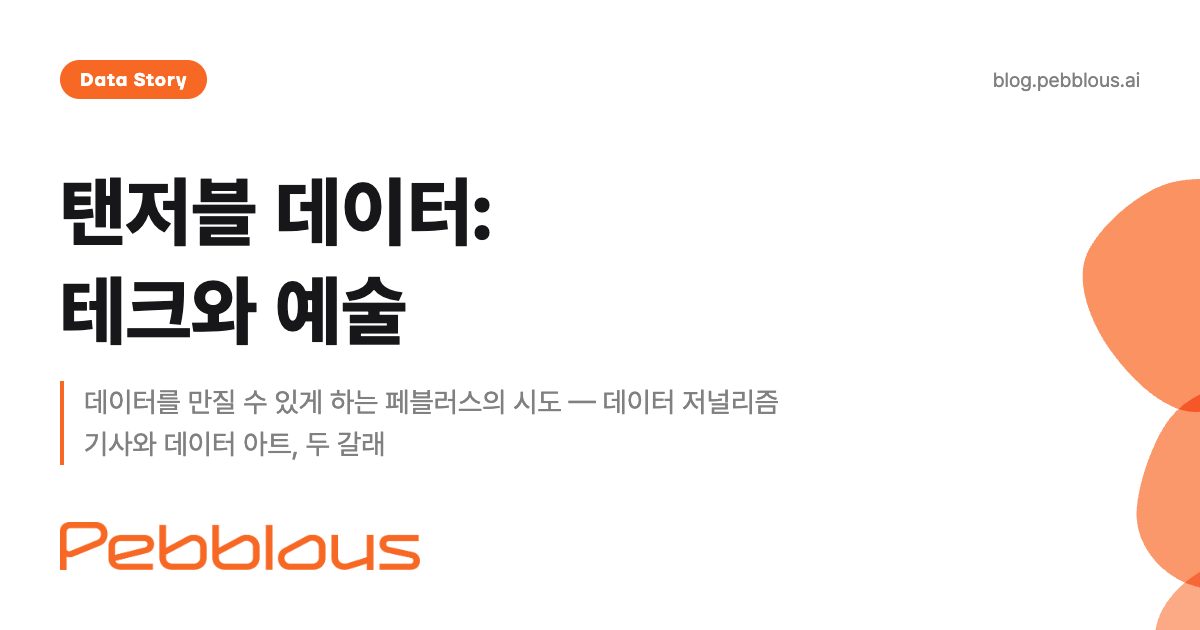
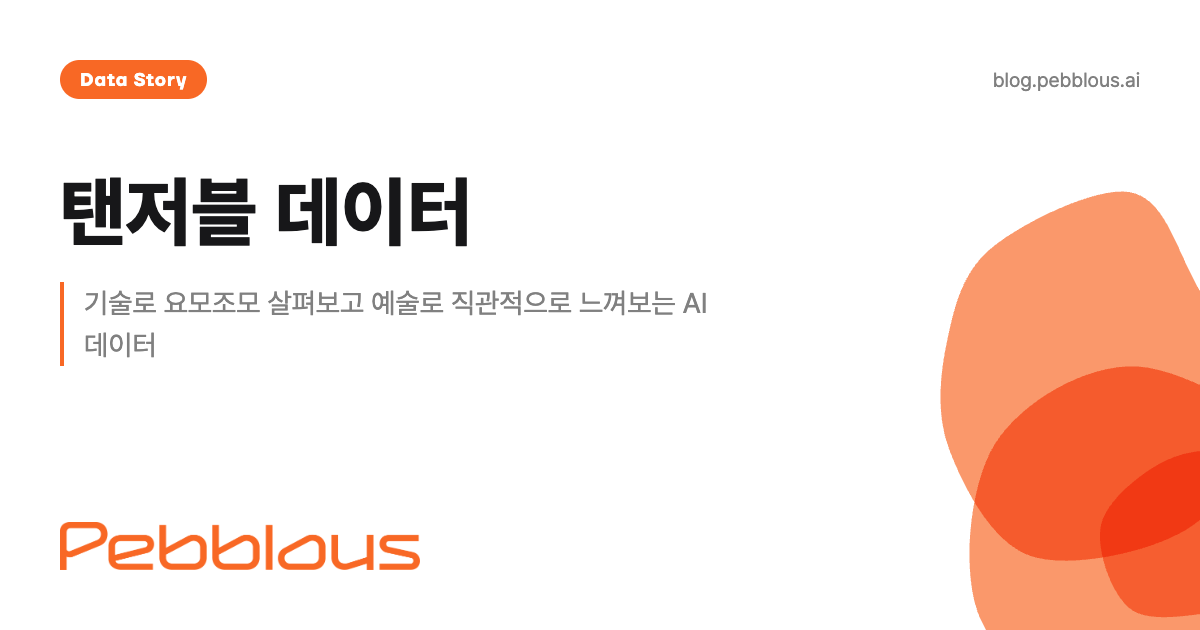
feat(tangible-data): 허브 단순화 — 제목 '탠저블 데이터', 부제 '기술로 요모조모 살펴보고 예술로 직관적으로 느껴보는 AI 데이터'(형님 지정)
- 요약 한 문단(두 갈래 설명을 녹임) → Story 자동 그리드 → Art 카드. 읽는 법·CTA 블록 제거, FAQ 3개
- OG·사이드카·changelog 갱신. title-census 통과, check-ko-prose 해라체 100%

diff --git a/project/tangible-data/ko/index.html b/project/tangible-data/ko/index.html
@@ -8,8 +8,8 @@
     <meta name="robots" content="index, follow">
     <meta name="revisit-after" content="7 days">
 
-    <title>탠저블 데이터 허브 — 테크와 예술, 만질 수 있는 데이터 | 페블러스</title>
-    <meta name="description" content="탠저블 데이터는 데이터를 만질 수 있게 하는 페블러스의 시도다. 데이터 저널리즘 인터랙티브 기사(Tangible Data Story)와 데이터 아트(Tangible Data Art), 두 갈래를 한 허브에 모은다.">
+    <title>탠저블 데이터 — 기술과 예술로 만지는 AI 데이터 | 페블러스</title>
+    <meta name="description" content="데이터를 만질 수 있게 하는 페블러스의 시도. 기술로 요모조모 살펴보는 데이터 저널리즘 기사와 예술로 직관적으로 느껴보는 데이터 아트, 두 갈래를 한 허브에 모은다.">
     <meta name="keywords" content="탠저블 데이터, Tangible Data, 데이터 저널리즘, 인터랙티브 기사, 데이터 아트, 데이터 아트랩, DAL, 임베딩, DINOv3, 페블러스">
 
     <link rel="canonical" href="https://blog.pebblous.ai/project/tangible-data/ko/">
@@ -18,14 +18,14 @@
     <link rel="alternate" hreflang="x-default" href="https://blog.pebblous.ai/project/tangible-data/ko/">
 
     <!-- Open Graph -->
-    <meta property="og:title" content="탠저블 데이터: 테크와 예술">
-    <meta property="og:description" content="데이터를 만질 수 있게 하는 페블러스의 시도 — 데이터 저널리즘 기사와 데이터 아트, 두 갈래">
+    <meta property="og:title" content="탠저블 데이터">
+    <meta property="og:description" content="기술로 요모조모 살펴보고 예술로 직관적으로 느껴보는 AI 데이터">
     <meta property="og:type" content="website">
     <meta property="og:url" content="https://blog.pebblous.ai/project/tangible-data/ko/">
     <meta property="og:image" content="https://blog.pebblous.ai/project/tangible-data/ko/image/index.png">
     <meta property="og:image:width" content="1200">
     <meta property="og:image:height" content="630">
-    <meta property="og:image:alt" content="탠저블 데이터 — 테크와 예술, 페블러스 허브">
+    <meta property="og:image:alt" content="탠저블 데이터 — 페블러스 허브">
     <meta property="og:site_name" content="Pebblous Blog">
     <meta property="og:locale" content="ko_KR">
 
@@ -33,10 +33,10 @@
     <meta name="twitter:card" content="summary_large_image">
     <meta name="twitter:site" content="@pebblous_official">
     <meta name="twitter:creator" content="@pebblous_official">
-    <meta name="twitter:title" content="탠저블 데이터: 테크와 예술">
-    <meta name="twitter:description" content="데이터를 만질 수 있게 하는 페블러스의 시도 — 데이터 저널리즘 기사와 데이터 아트, 두 갈래">
+    <meta name="twitter:title" content="탠저블 데이터">
+    <meta name="twitter:description" content="기술로 요모조모 살펴보고 예술로 직관적으로 느껴보는 AI 데이터">
     <meta name="twitter:image" content="https://blog.pebblous.ai/project/tangible-data/ko/image/index.png">
-    <meta name="twitter:image:alt" content="탠저블 데이터 — 테크와 예술, 페블러스 허브">
+    <meta name="twitter:image:alt" content="탠저블 데이터 — 페블러스 허브">
 
     <!-- Favicon -->
     <link rel="icon" href="/image/favicon.ico" sizes="any">
@@ -66,83 +66,42 @@
     <!-- Main Container -->
     <div class="container mx-auto px-6 py-8 md:py-12 max-w-6xl">
 
-        <!-- Hero Section -->
+        <!-- Hero -->
         <header class="text-center mb-12">
             <h1 id="page-h1-title" class="text-4xl md:text-5xl font-bold themeable-heading mb-4 leading-tight" style="color: #F86825;"></h1>
             <p class="text-sm themeable-muted">(주)페블러스 데이터 커뮤니케이션팀 · <a href="/project/tangible-data/en/" class="text-orange-400 hover:text-orange-300 transition-colors">English</a></p>
         </header>
 
-        <!-- 브랜드 선언 -->
+        <!-- 요약 -->
         <div class="intro-section">
             <div class="key-insight">
-                <p class="themeable-text leading-relaxed" style="font-weight:600; font-size:1.05rem;">
-                    탠저블 데이터는 데이터를 만질 수 있게 하는 페블러스의 시도다. 표와 그림으로 읽던 것을 손으로 고르고 돌리고 눌러 보게 한다.
-                </p>
-                <p class="themeable-text leading-relaxed mt-4">
-                    이 시도에는 두 손이 있다. 하나는 <strong>Tangible Data Story</strong>, 연구 데이터를 독자가 직접 탐색하는 데이터 저널리즘 기사다. 다른 하나는 <strong>Tangible Data Art</strong>, 페블러스 데이터 아트랩(DAL)이 데이터를 감각의 경험으로 옮기는 작품이다. 기사는 정확성과 출처로, 작품은 경험과 질문으로 같은 데이터를 다르게 만지게 한다.
-                </p>
-                <p class="themeable-text leading-relaxed mt-4">
-                    두 갈래는 읽는 규칙이 다르다. 그래서 이 허브는 둘을 한 지붕 아래 두되 섞지 않는다. 기사 쪽은 실측과 합성을 구분하고 출처와 한계를 함께 적는다. 작품 쪽은 전시와 상호작용의 기록이다.
+                <p class="themeable-text leading-relaxed">
+                    탠저블 데이터는 데이터를 만질 수 있게 하는 페블러스의 시도다. 표와 그림으로 읽던 AI 데이터를 손으로 고르고 돌리고 눌러 보게 한다. 갈래는 둘이다. <strong>Tangible Data Story</strong>는 연구 데이터를 독자가 직접 탐색하는 데이터 저널리즘 기사이고, <strong>Tangible Data Art</strong>는 페블러스 데이터 아트랩(DAL)이 데이터를 감각의 경험으로 옮기는 작품이다. 기사는 정확성과 출처로, 작품은 경험과 질문으로 같은 데이터를 다르게 만지게 한다. 이 허브는 둘을 한 지붕 아래 두되 섞지 않는다.
                 </p>
             </div>
         </div>
 
-        <!-- ===== Tangible Data Story ===== -->
-        <div class="intro-section">
-            <h2 class="text-2xl font-bold themeable-heading mb-2">Tangible Data Story</h2>
-            <p class="themeable-muted text-sm mb-6">연구하면서 만든 데이터 탐색기를 기사 안에 그대로 여는 데이터 저널리즘. 화면의 사진·좌표·수치는 실제 측정값이고, 원리를 보여 주려고 만든 합성 예제는 그렇다고 표시한다. 실험 하나가 끝날 때마다 한 편씩 더한다.</p>
-            <div class="space-y-4">
-                <a href="/story/tangible-data-dinov3-beans/ko/" class="ir-hover-card block themeable-card-bg rounded-lg p-5 border-2 no-underline" style="border-color: #F86825;">
-                    <p class="ir-hover-title text-lg font-bold themeable-heading">AI는 강낭콩 잎 사진을 어떻게 '비슷하다'고 볼까?</p>
-                    <p class="themeable-text text-sm mt-1 leading-relaxed">네 가지 AI 모델의 눈으로 같은 잎 사진 300장을 비교하고, 신경망 층마다 바뀌는 값을 직접 눌러 보는 탐색기. 실제 사진·임베딩·층별 텐서를 그대로 담았다.</p>
-                    <p class="text-xs themeable-muted mt-2">2026.09.25 · 첫 편</p>
-                </a>
-            </div>
-        </div>
-
-        <div class="intro-section">
-            <h3 class="text-xl font-bold themeable-heading mb-6">기사를 읽는 법</h3>
-            <div class="space-y-4">
-                <div class="themeable-card-bg rounded-lg p-4 border themeable-border">
-                    <p class="text-lg font-semibold themeable-heading">실측과 합성을 구분해 둔다</p>
-                    <p class="themeable-text text-sm mt-1 leading-relaxed">사진·좌표·이웃·층별 값처럼 실제로 측정한 것과, 원리를 보여 주려고 수학으로 만든 예제를 화면에서 따로 표시한다. 둘을 섞어 읽지 않도록 매 편에 같은 규칙을 쓴다.</p>
-                </div>
-                <div class="themeable-card-bg rounded-lg p-4 border themeable-border">
-                    <p class="text-lg font-semibold themeable-heading">가까워 보인다는 인상에서 멈추지 않는다</p>
-                    <p class="themeable-text text-sm mt-1 leading-relaxed">점이 가까이 모였다고 해서 모델이 그 이유를 안다는 뜻은 아니다. 어떤 표현과 거리로 계산했는지, 어떤 규칙으로 골랐는지 되짚을 수 있게 출처와 계산 경로를 함께 둔다.</p>
-                </div>
-                <div class="themeable-card-bg rounded-lg p-4 border themeable-border">
-                    <p class="text-lg font-semibold themeable-heading">데이터는 내려받을 수 있다</p>
-                    <p class="themeable-text text-sm mt-1 leading-relaxed">각 기사는 화면에 쓴 데이터 파일과 출처 목록을 함께 공개한다. 독자가 같은 자료로 다른 질문을 던질 수 있어야 만질 수 있는 데이터다.</p>
-                </div>
-            </div>
-        </div>
-
+        <!-- Story -->
         <div class="hub-section">
-            <h3 class="text-xl font-bold themeable-heading mb-6">스토리 모음</h3>
+            <h2 class="text-2xl font-bold themeable-heading mb-2">Tangible Data Story</h2>
+            <p class="themeable-muted text-sm mb-6">연구하면서 만든 데이터 탐색기를 기사 안에 그대로 연다. 화면의 사진·좌표·수치는 실제 측정값이고, 원리를 보여 주려고 만든 합성 예제는 그렇다고 표시한다. 실험 하나가 끝날 때마다 한 편씩 더한다.</p>
             <div id="tangible-story-cards">
                 <!-- Dynamically loaded from articles.json -->
             </div>
         </div>
 
-        <!-- ===== Tangible Data Art ===== -->
-        <div class="intro-section">
+        <!-- Art -->
+        <div class="hub-section">
             <h2 class="text-2xl font-bold themeable-heading mb-2">Tangible Data Art</h2>
-            <p class="themeable-muted text-sm mb-6">페블러스 데이터 아트랩(DAL)이 데이터를 감각의 경험으로 옮기는 작품과 전시의 기록. 관객이 데이터의 우주를 탐험하고 상호작용으로 새 데이터를 만들어 남긴다.</p>
+            <p class="themeable-muted text-sm mb-6">데이터 아트랩이 데이터를 감각의 경험으로 옮긴 작품과 전시의 기록.</p>
             <div class="space-y-4">
-                <a href="https://www.informationisbeautifulawards.com/showcase/7472-tangible-data-from-data-nature-to-data-culture" target="_blank" rel="noopener" class="ir-hover-card block themeable-card-bg rounded-lg p-5 border-2 no-underline" style="border-color: #F86825;">
+                <a href="https://www.informationisbeautifulawards.com/showcase/7472-tangible-data-from-data-nature-to-data-culture" target="_blank" rel="noopener" class="ir-hover-card block themeable-card-bg rounded-lg p-5 border themeable-border no-underline">
                     <p class="ir-hover-title text-lg font-bold themeable-heading">Tangible Data: From Data Nature to Data Culture ↗</p>
-                    <p class="themeable-text text-sm mt-1 leading-relaxed">2024년 현대차그룹 제로원데이에서 선보인 데이터 아트랩의 첫 작품. 관객이 직접 데이터의 우주를 탐험하고 상호작용으로 새로운 데이터를 창조해 기록하는 인터랙티브 미디어 아트. Information Is Beautiful Awards 2024 롱리스트.</p>
+                    <p class="themeable-text text-sm mt-1 leading-relaxed">2024년 현대차그룹 제로원데이에서 선보인 데이터 아트랩의 첫 작품. 관객이 직접 데이터의 우주를 탐험하고 상호작용으로 새로운 데이터를 만들어 기록하는 인터랙티브 미디어 아트. Information Is Beautiful Awards 2024 롱리스트.</p>
                     <p class="text-xs themeable-muted mt-2">2024.10.23 · 전시</p>
                 </a>
             </div>
-        </div>
-
-        <!-- Pebblous CTA -->
-        <div class="hub-section">
-            <div class="key-insight">
-                <p class="themeable-text leading-relaxed">두 갈래 모두 <strong><a href="https://pebblous.ai/" target="_blank" rel="noopener" style="color: #F86825;">페블러스</a></strong>가 AI 학습 데이터의 품질을 진단하고 고르는 일에서 출발했다. 데이터 품질 진단·정제·인증을 한자리에서 다루는 <strong><a href="/project/DataClinic/ko/" style="color: #F86825;">데이터클리닉(DataClinic)</a></strong>, 진단 결과를 이야기로 풀어낸 <strong><a href="/story/dataclinic-stories/ko/" style="color: #F86825;">DataClinic 진단 스토리</a></strong>, 데이터 아트랩의 <strong><a href="/project/DAL/" style="color: #F86825;">DAL 허브</a></strong>도 함께 볼 만하다.</p>
-            </div>
+            <p class="text-sm themeable-muted mt-4">더 많은 작품은 <a href="/project/DAL/" class="text-orange-400 hover:text-orange-300">데이터 아트랩(DAL) 허브</a>에 있다.</p>
         </div>
 
     </div>
@@ -167,9 +126,9 @@
 
         document.addEventListener('DOMContentLoaded', async function() {
             const config = {
-                mainTitle: "탠저블 데이터: 테크와 예술",
-                subtitle: "데이터를 만질 수 있게 하는 페블러스의 시도 — 데이터 저널리즘 기사와 데이터 아트, 두 갈래를 한 허브에",
-                pageTitle: "탠저블 데이터 허브 — 테크와 예술, 만질 수 있는 데이터 | 페블러스",
+                mainTitle: "탠저블 데이터",
+                subtitle: "기술로 요모조모 살펴보고 예술로 직관적으로 느껴보는 AI 데이터",
+                pageTitle: "탠저블 데이터 — 기술과 예술로 만지는 AI 데이터 | 페블러스",
                 publishDate: "2026년 9월",
                 publisher: "(주)페블러스 데이터 커뮤니케이션팀",
                 defaultTheme: "light",
@@ -177,11 +136,9 @@
                 articlePath: "project/tangible-data/ko/index.html",
                 tags: ["탠저블 데이터", "Tangible Data", "데이터 저널리즘", "인터랙티브 기사", "데이터 아트", "데이터 아트랩", "임베딩", "DINOv3"],
                 faqs: [
-                    { question: "탠저블 데이터는 무엇인가?", answer: "데이터를 만질 수 있게 하는 페블러스의 브랜드 개념이다. 연구 데이터를 독자가 직접 탐색하는 데이터 저널리즘 기사(Tangible Data Story)와, 데이터 아트랩이 데이터를 감각의 경험으로 옮기는 작품(Tangible Data Art), 두 갈래로 이루어진다." },
-                    { question: "Story와 Art는 무엇이 다른가?", answer: "Story는 실측과 합성을 구분하고 출처와 한계를 함께 적는 기사다. Art는 전시와 상호작용의 기록이다. 같은 데이터를 하나는 정확성으로, 하나는 경험으로 만지게 한다. 이 허브는 둘을 한 지붕 아래 두되 섞지 않는다." },
-                    { question: "Story의 화면에 나오는 숫자와 그림은 실제 데이터인가?", answer: "사진·좌표·이웃·층별 값은 실제로 측정한 자료다. 원리를 설명하려고 수학으로 만든 예제는 화면에 '합성'이라고 따로 표시한다." },
-                    { question: "탐색기를 쓰는 데 설치나 로그인이 필요한가?", answer: "필요 없다. 웹 브라우저에서 바로 열린다. 데이터는 페이지와 함께 내려받아지며, 모델을 새로 돌리지 않는다." },
-                    { question: "새 기사나 작품은 얼마나 자주 올라오나?", answer: "정해진 주기는 없다. 실험 하나가 끝나 독자가 만질 만한 데이터가 나올 때, 또는 데이터 아트랩의 새 작품이 나올 때 한 편씩 더한다." }
+                    { question: "탠저블 데이터는 무엇인가?", answer: "데이터를 만질 수 있게 하는 페블러스의 브랜드 개념이다. 기술로 요모조모 살펴보는 데이터 저널리즘 기사(Tangible Data Story)와 예술로 직관적으로 느껴보는 데이터 아트(Tangible Data Art), 두 갈래로 이루어진다." },
+                    { question: "Story와 Art는 무엇이 다른가?", answer: "Story는 실측과 합성을 구분하고 출처와 한계를 함께 적는 기사다. Art는 전시와 상호작용의 기록이다. 같은 데이터를 하나는 정확성으로, 하나는 경험으로 만지게 한다." },
+                    { question: "Story의 탐색기를 쓰는 데 설치나 로그인이 필요한가?", answer: "필요 없다. 웹 브라우저에서 바로 열린다. 데이터는 페이지와 함께 내려받아지며, 모델을 새로 돌리지 않는다." }
                 ]
             };
 

diff --git a/project/tangible-data/en/index.html b/project/tangible-data/en/index.html
@@ -8,8 +8,8 @@
     <meta name="robots" content="index, follow">
     <meta name="revisit-after" content="7 days">
 
-    <title>Tangible Data Hub — Tech and Art, Data You Can Handle | Pebblous</title>
-    <meta name="description" content="Tangible Data is Pebblous's effort to make data something you can handle. One hub, two strands: data-journalism interactive stories (Tangible Data Story) and data art (Tangible Data Art).">
+    <title>Tangible Data — AI Data Through Tech and Art | Pebblous</title>
+    <meta name="description" content="Pebblous's effort to make data something you can handle: data-journalism stories that examine AI data from every angle, and data art that lets you feel it intuitively, in one hub.">
     <meta name="keywords" content="Tangible Data, data journalism, interactive story, data art, Data Art Lab, DAL, embeddings, DINOv3, Pebblous">
 
     <link rel="canonical" href="https://blog.pebblous.ai/project/tangible-data/en/">
@@ -18,14 +18,14 @@
     <link rel="alternate" hreflang="x-default" href="https://blog.pebblous.ai/project/tangible-data/ko/">
 
     <!-- Open Graph -->
-    <meta property="og:title" content="Tangible Data: Tech and Art">
-    <meta property="og:description" content="Pebblous\'s effort to make data something you can handle — data-journalism stories and data art, two strands in one hub">
+    <meta property="og:title" content="Tangible Data">
+    <meta property="og:description" content="AI data examined from every angle through technology and felt intuitively through art">
     <meta property="og:type" content="website">
     <meta property="og:url" content="https://blog.pebblous.ai/project/tangible-data/en/">
     <meta property="og:image" content="https://blog.pebblous.ai/project/tangible-data/en/image/index.png">
     <meta property="og:image:width" content="1200">
     <meta property="og:image:height" content="630">
-    <meta property="og:image:alt" content="Tangible Data — Tech and Art, the Pebblous hub">
+    <meta property="og:image:alt" content="Tangible Data — the Pebblous hub">
     <meta property="og:site_name" content="Pebblous Blog">
     <meta property="og:locale" content="en_US">
 
@@ -33,10 +33,10 @@
     <meta name="twitter:card" content="summary_large_image">
     <meta name="twitter:site" content="@pebblous_official">
     <meta name="twitter:creator" content="@pebblous_official">
-    <meta name="twitter:title" content="Tangible Data: Tech and Art">
-    <meta name="twitter:description" content="Pebblous\'s effort to make data something you can handle — data-journalism stories and data art, two strands in one hub">
+    <meta name="twitter:title" content="Tangible Data">
+    <meta name="twitter:description" content="AI data examined from every angle through technology and felt intuitively through art">
     <meta name="twitter:image" content="https://blog.pebblous.ai/project/tangible-data/en/image/index.png">
-    <meta name="twitter:image:alt" content="Tangible Data — Tech and Art, the Pebblous hub">
+    <meta name="twitter:image:alt" content="Tangible Data — the Pebblous hub">
 
     <!-- Favicon -->
     <link rel="icon" href="/image/favicon.ico" sizes="any">
@@ -66,83 +66,42 @@
     <!-- Main Container -->
     <div class="container mx-auto px-6 py-8 md:py-12 max-w-6xl">
 
-        <!-- Hero Section -->
+        <!-- Hero -->
         <header class="text-center mb-12">
             <h1 id="page-h1-title" class="text-4xl md:text-5xl font-bold themeable-heading mb-4 leading-tight" style="color: #F86825;"></h1>
             <p class="text-sm themeable-muted">Pebblous Data Communication Team · <a href="/project/tangible-data/ko/" class="text-orange-400 hover:text-orange-300 transition-colors">한국어</a></p>
         </header>
 
-        <!-- Brand statement -->
+        <!-- Summary -->
         <div class="intro-section">
             <div class="key-insight">
-                <p class="themeable-text leading-relaxed" style="font-weight:600; font-size:1.05rem;">
-                    Tangible Data is Pebblous's effort to make data something you can handle: to pick up, turn around, and press on what you used to read in tables and charts.
-                </p>
-                <p class="themeable-text leading-relaxed mt-4">
-                    The effort has two hands. One is <strong>Tangible Data Story</strong>, data-journalism articles in which readers explore research data themselves. The other is <strong>Tangible Data Art</strong>, works by the Pebblous Data Art Lab (DAL) that turn data into sensory experience. Stories handle data through accuracy and sources; artworks handle it through experience and questions.
-                </p>
-                <p class="themeable-text leading-relaxed mt-4">
-                    The two strands follow different reading rules, so this hub keeps them under one roof without mixing them. Stories separate measured from synthetic and list sources and limits. Artworks are records of exhibitions and interaction.
+                <p class="themeable-text leading-relaxed">
+                    Tangible Data is Pebblous's effort to make data something you can handle: to pick up, turn around, and press on the AI data you used to read in tables and charts. It has two strands. <strong>Tangible Data Story</strong> is data journalism in which readers explore research data themselves; <strong>Tangible Data Art</strong> is work by the Pebblous Data Art Lab (DAL) that turns data into sensory experience. Stories handle data through accuracy and sources, artworks through experience and questions. The hub keeps the two under one roof without mixing them.
                 </p>
             </div>
         </div>
 
-        <!-- ===== Tangible Data Story ===== -->
-        <div class="intro-section">
-            <h2 class="text-2xl font-bold themeable-heading mb-2">Tangible Data Story</h2>
-            <p class="themeable-muted text-sm mb-6">Data journalism that opens the explorers we build during research inside the article itself. Photos, coordinates, and numbers on screen are real measurements; synthetic examples built to explain a principle are labeled as such. A new story is added whenever an experiment leaves data worth handling.</p>
-            <div class="space-y-4">
-                <a href="/story/tangible-data-dinov3-beans/en/" class="ir-hover-card block themeable-card-bg rounded-lg p-5 border-2 no-underline" style="border-color: #F86825;">
-                    <p class="ir-hover-title text-lg font-bold themeable-heading">How Does an AI Decide Which Bean-Leaf Photos Look Alike?</p>
-                    <p class="themeable-text text-sm mt-1 leading-relaxed">Compare four models' embeddings of the same 300 leaf photos and step through layer-by-layer tensors. Real photos, real embeddings, real intermediate tensors. The explorer interface is in Korean.</p>
-                    <p class="text-xs themeable-muted mt-2">2026.09.25 · First story</p>
-                </a>
-            </div>
-        </div>
-
-        <div class="intro-section">
-            <h3 class="text-xl font-bold themeable-heading mb-6">How to Read a Story</h3>
-            <div class="space-y-4">
-                <div class="themeable-card-bg rounded-lg p-4 border themeable-border">
-                    <p class="text-lg font-semibold themeable-heading">Measured and synthetic are kept apart</p>
-                    <p class="themeable-text text-sm mt-1 leading-relaxed">Photos, coordinates, neighbors, and layer values are measured. Examples built with mathematics to show a principle are marked as synthetic on screen. Every story uses the same rule so the two are never read as one.</p>
-                </div>
-                <div class="themeable-card-bg rounded-lg p-4 border themeable-border">
-                    <p class="text-lg font-semibold themeable-heading">We do not stop at "these look close"</p>
-                    <p class="themeable-text text-sm mt-1 leading-relaxed">Points clustering together does not mean the model knows why. Each story keeps the representation, the distance, and the selection rule in view, with sources and the computation path, so you can trace how a result was made.</p>
-                </div>
-                <div class="themeable-card-bg rounded-lg p-4 border themeable-border">
-                    <p class="text-lg font-semibold themeable-heading">The data is downloadable</p>
-                    <p class="themeable-text text-sm mt-1 leading-relaxed">Every story ships with the data files it draws and a list of sources. Data is tangible only if a reader can ask a different question of the same material.</p>
-                </div>
-            </div>
-        </div>
-
+        <!-- Story -->
         <div class="hub-section">
-            <h3 class="text-xl font-bold themeable-heading mb-6">All Stories</h3>
+            <h2 class="text-2xl font-bold themeable-heading mb-2">Tangible Data Story</h2>
+            <p class="themeable-muted text-sm mb-6">The explorers we build during research, opened inside the article itself. Photos, coordinates, and numbers on screen are real measurements; synthetic examples built to explain a principle are labeled as such. A new story is added whenever an experiment leaves data worth handling.</p>
             <div id="tangible-story-cards">
                 <!-- Dynamically loaded from articles.json -->
             </div>
         </div>
 
-        <!-- ===== Tangible Data Art ===== -->
-        <div class="intro-section">
+        <!-- Art -->
+        <div class="hub-section">
             <h2 class="text-2xl font-bold themeable-heading mb-2">Tangible Data Art</h2>
-            <p class="themeable-muted text-sm mb-6">Works and exhibitions by the Pebblous Data Art Lab (DAL) that turn data into sensory experience, where visitors explore a universe of data and create and record new data through interaction.</p>
+            <p class="themeable-muted text-sm mb-6">Works and exhibitions by the Data Art Lab that turn data into sensory experience.</p>
             <div class="space-y-4">
-                <a href="https://www.informationisbeautifulawards.com/showcase/7472-tangible-data-from-data-nature-to-data-culture" target="_blank" rel="noopener" class="ir-hover-card block themeable-card-bg rounded-lg p-5 border-2 no-underline" style="border-color: #F86825;">
+                <a href="https://www.informationisbeautifulawards.com/showcase/7472-tangible-data-from-data-nature-to-data-culture" target="_blank" rel="noopener" class="ir-hover-card block themeable-card-bg rounded-lg p-5 border themeable-border no-underline">
                     <p class="ir-hover-title text-lg font-bold themeable-heading">Tangible Data: From Data Nature to Data Culture ↗</p>
                     <p class="themeable-text text-sm mt-1 leading-relaxed">The Data Art Lab's first work, shown at Hyundai Motor Group's ZER01NE Day 2024: interactive media art in which visitors explore a universe of data and create and record new data through interaction. Long-listed for the Information Is Beautiful Awards 2024.</p>
                     <p class="text-xs themeable-muted mt-2">2024.10.23 · Exhibition</p>
                 </a>
             </div>
-        </div>
-
-        <!-- Pebblous CTA -->
-        <div class="hub-section">
-            <div class="key-insight">
-                <p class="themeable-text leading-relaxed">Both strands grew out of <strong><a href="https://pebblous.ai/" target="_blank" rel="noopener" style="color: #F86825;">Pebblous</a></strong>'s work on diagnosing and selecting AI training data. See also <strong><a href="/project/DataClinic/en/" style="color: #F86825;">DataClinic</a></strong>, where data quality diagnosis, curation, and certification meet, the <strong><a href="/story/dataclinic-stories/en/" style="color: #F86825;">DataClinic Diagnosis Stories</a></strong>, and the Data Art Lab's <strong><a href="/project/DAL/" style="color: #F86825;">DAL hub</a></strong>.</p>
-            </div>
+            <p class="text-sm themeable-muted mt-4">More works are in the <a href="/project/DAL/" class="text-orange-400 hover:text-orange-300">Data Art Lab (DAL) hub</a>.</p>
         </div>
 
     </div>
@@ -167,9 +126,9 @@
 
         document.addEventListener('DOMContentLoaded', async function() {
             const config = {
-                mainTitle: "Tangible Data: Tech and Art",
-                subtitle: "Pebblous's effort to make data you can handle — data-journalism stories and data art in one hub",
-                pageTitle: "Tangible Data Hub — Tech and Art, Data You Can Handle | Pebblous",
+                mainTitle: "Tangible Data",
+                subtitle: "AI data examined from every angle through technology and felt intuitively through art",
+                pageTitle: "Tangible Data — AI Data Through Tech and Art | Pebblous",
                 publishDate: "September 2026",
                 publisher: "Pebblous Data Communication Team",
                 defaultTheme: "light",
@@ -177,11 +136,9 @@
                 articlePath: "project/tangible-data/en/index.html",
                 tags: ["Tangible Data", "data journalism", "interactive story", "data art", "Data Art Lab", "embeddings", "DINOv3"],
                 faqs: [
-                    { question: "What is Tangible Data?", answer: "A Pebblous brand concept: making data something you can handle. It has two strands, data-journalism stories in which readers explore research data themselves (Tangible Data Story) and works by the Data Art Lab that turn data into sensory experience (Tangible Data Art)." },
-                    { question: "How do Story and Art differ?", answer: "Stories separate measured from synthetic and list sources and limits. Artworks are records of exhibitions and interaction. One handles the same data through accuracy, the other through experience. The hub keeps them under one roof without mixing them." },
-                    { question: "Are the numbers and images in a Story real data?", answer: "Photos, coordinates, neighbors, and layer values are measured data. Examples built with mathematics to explain a principle are labeled as synthetic on screen." },
-                    { question: "Do I need to install anything or log in?", answer: "No. Each explorer opens in a web browser. The data is downloaded with the page, and no model is run live." },
-                    { question: "How often is something new added?", answer: "There is no fixed schedule. A story is added whenever an experiment leaves data worth handling, and an artwork whenever the Data Art Lab shows a new piece." }
+                    { question: "What is Tangible Data?", answer: "A Pebblous brand concept: making data something you can handle. It has two strands, data-journalism stories that examine AI data from every angle (Tangible Data Story) and data art that lets you feel it intuitively (Tangible Data Art)." },
+                    { question: "How do Story and Art differ?", answer: "Stories separate measured from synthetic and list sources and limits. Artworks are records of exhibitions and interaction. One handles the same data through accuracy, the other through experience." },
+                    { question: "Do I need to install anything to use a Story explorer?", answer: "No. Each explorer opens in a web browser. The data is downloaded with the page, and no model is run live." }
                 ]
             };
 

diff --git a/project/tangible-data/index.html b/project/tangible-data/index.html
@@ -7,8 +7,8 @@
     <link rel="canonical" href="./ko/">
     <script>window.location.replace('./ko/');</script>
     <meta property="og:type" content="website">
-    <meta property="og:title" content="탠저블 데이터: 테크와 예술">
-    <meta property="og:description" content="데이터를 만질 수 있게 하는 페블러스의 시도 — 데이터 저널리즘 기사와 데이터 아트, 두 갈래.">
+    <meta property="og:title" content="탠저블 데이터">
+    <meta property="og:description" content="기술로 요모조모 살펴보고 예술로 직관적으로 느껴보는 AI 데이터">
     <meta property="og:image" content="https://blog.pebblous.ai/project/tangible-data/ko/image/index.png">
     <meta property="og:url" content="https://blog.pebblous.ai/project/tangible-data/">
     <meta name="twitter:card" content="summary_large_image">
